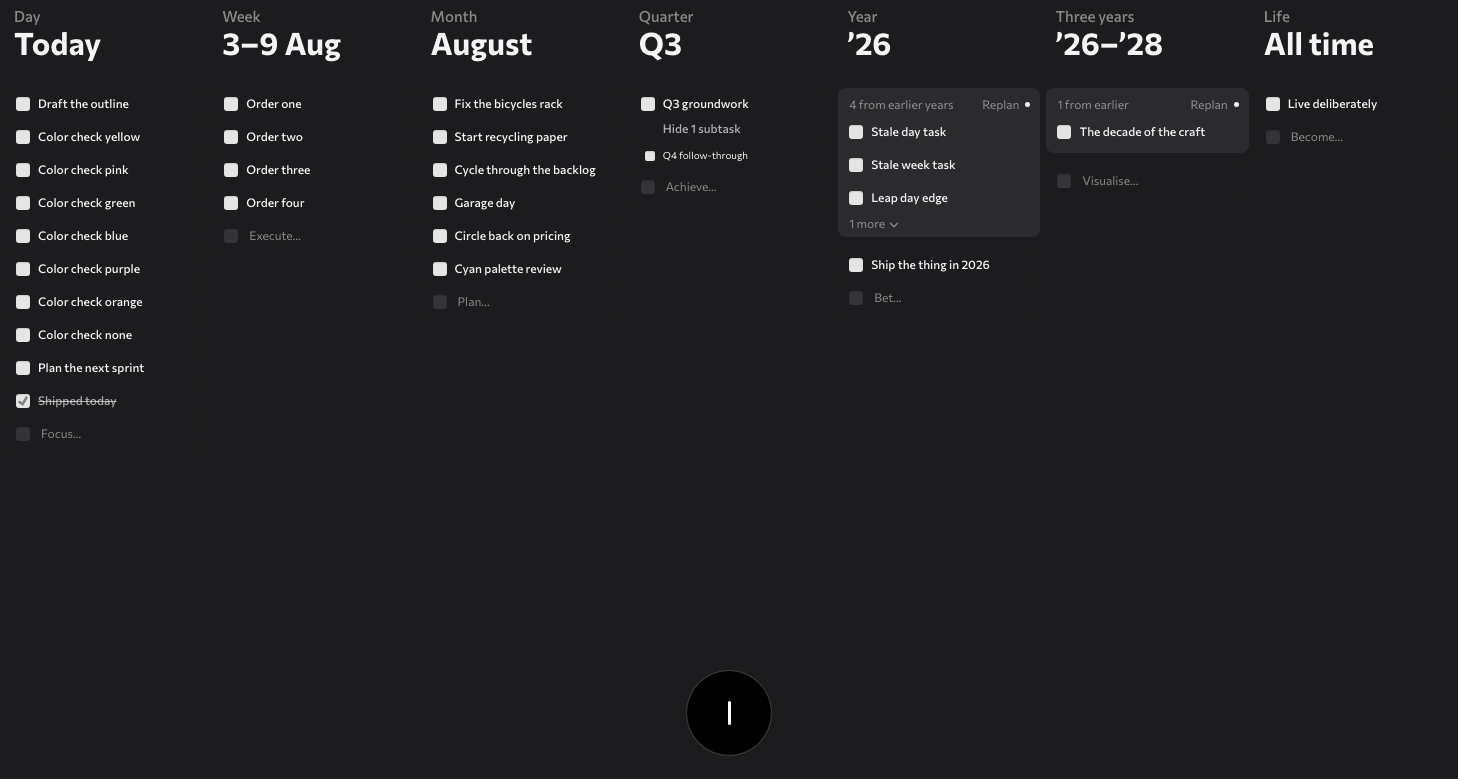
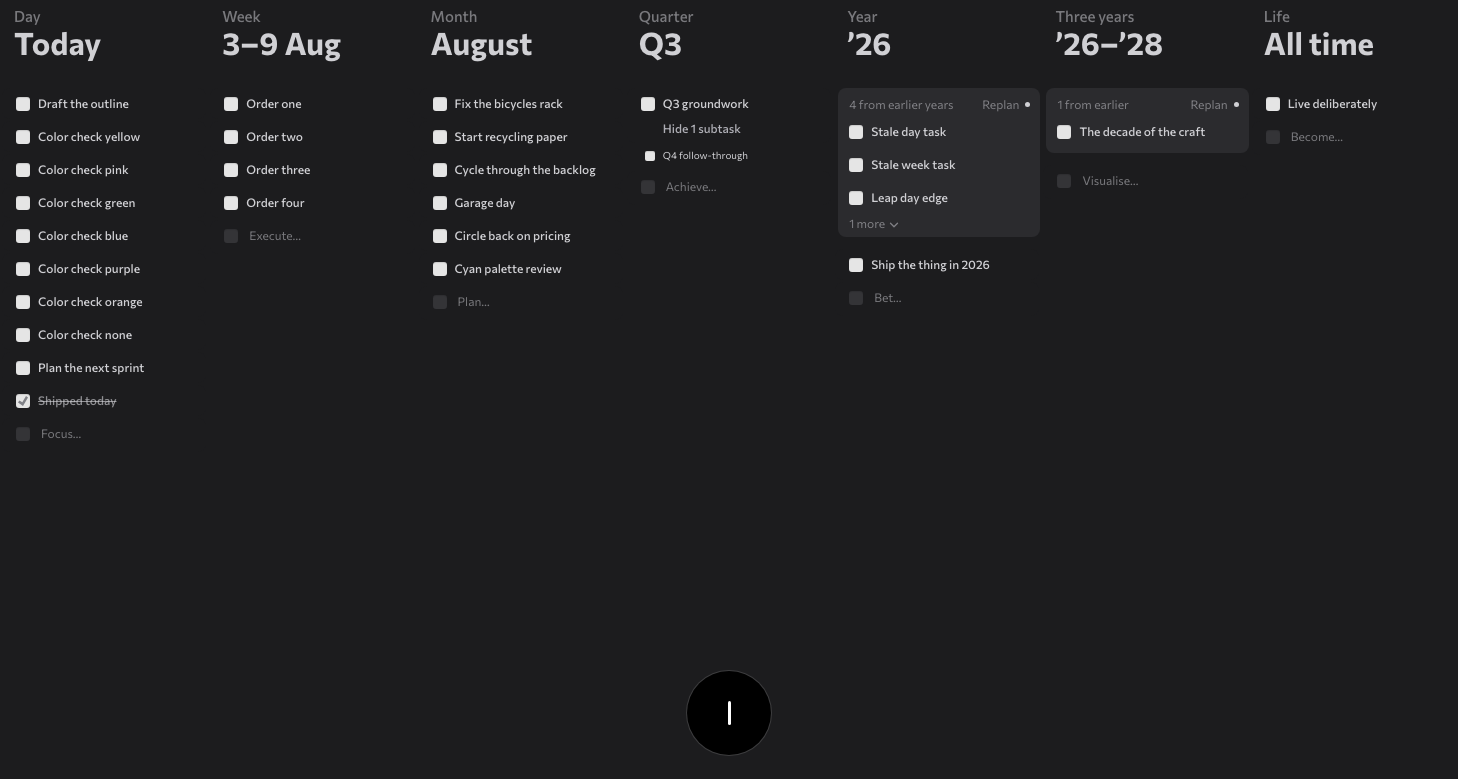
style(web): soften primary text in dark appearance

diff --git a/web/src/theme.css b/web/src/theme.css
@@ -7,15 +7,15 @@
   :root {
     --color-bg: #1c1c1e;
     --color-bg-muted: #242426;
-    --color-text: #f5f5f7;
-    --color-text-muted: rgb(245 245 247 / 65%);
-    --color-text-subtle: rgb(245 245 247 / 45%);
+    --color-text: #d0d0d4;
+    --color-text-muted: rgb(208 208 212 / 65%);
+    --color-text-subtle: rgb(208 208 212 / 45%);
     --color-surface-overlay: rgb(255 255 255 / 6%);
     --color-surface-strong: rgb(255 255 255 / 10%);
     --color-border: rgb(255 255 255 / 12%);
     --color-border-strong: rgb(255 255 255 / 24%);
-    --vt-text-rgb: 245 245 247;
-    --vt-foreground-rgb: 237 237 240;
+    --vt-text-rgb: 208 208 212;
+    --vt-foreground-rgb: 208 208 212;
     --vt-surface-rgb: 28 28 30;
     --vt-desk-rgb: 20 20 22;
     --vt-desk-bg: #141416;

diff --git a/tests/ui/test_system_theme.py b/tests/ui/test_system_theme.py
@@ -88,6 +88,7 @@ def test_initial_board_uses_system_appearance(ui_f2: UiSession, system_scheme, w
         _dark_surface(page, "body")
         _dark_surface(page, ".app-shell")
         _dark_surface(page, ".goal-card")
+        assert max(_channels(_rgb(page, ".goal-card__title", "color"))[:3]) <= 220
     else:
         assert _rgb(page, ".app-shell") == "rgb(255, 255, 255)"
     assert _contrast(page, ".goal-card__title", ".goal-card") >= 4.5
@@ -143,6 +144,8 @@ def test_documents_and_inbox_follow_live_changes(ui_f2: UiSession):
     expect(page.locator(".doc-detail__title")).to_have_text("SYN Night notes")
     _dark_surface(page, ".vt-window[data-window='doc']")
     assert _contrast(page, ".doc-detail__title", ".vt-window[data-window='doc']") >= 4.5
+    assert max(_channels(_rgb(page, ".doc-detail__body p", "color"))[:3]) <= 220
+    assert _contrast(page, ".doc-detail__body p", ".vt-window[data-window='doc']") >= 4.5
     _shot(page, "document-dark")
     page.locator(".doc-detail__body mark.comment-highlight").click()
     tick(page)

diff --git a/README.md b/README.md
@@ -17,6 +17,7 @@ Most of what you see we still don't like, so tell us what you hate. For now, exp
 
 It runs on your Mac and keeps your data there. You need Claude Code or Codex, signed in.
 The light and dark appearance follows macOS automatically, including changes while the app is open.
+Dark appearance uses soft grey text while keeping task and document text readable.
 The app is in [Releases](https://github.com/konstantinopolskii/verticals/releases); it still
 carries its old name, Verticals. Open source under the GNU Affero General Public License v3.0,
 see [License](#license).
